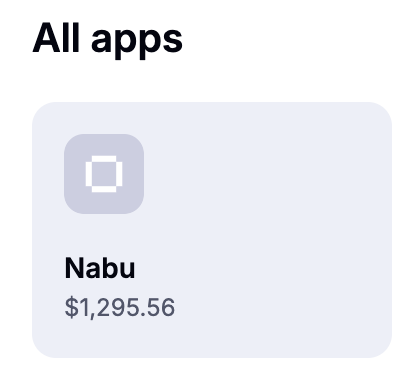
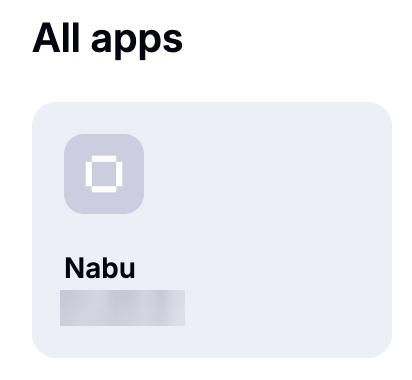
Fix connection guides, safety-control docs, diagrams, and exposed account data
Connection guides (0xAtelerix/smart_example#1475, #1483):
- Start both guides at app.nabu.pro/?settings=connect instead of the
  old cogwheel and Link Accounts flow, with a current screenshot.
- Show the current Connect Exchange Account form for Binance (step 2)
  and Hyperliquid (step 13, including the Link Exchange button).
- Point the final steps back to the Connect tab and add a closing
  "Connected" step with screenshots for both venues.

Safety controls (#1480):
- Daily loss cap, max slippage, venue allowlist, and kill switch all
  ship at MVP. Align the roadmap and the technology page with that, and
  add the daily loss cap to the risk control catalog.

Diagrams (#1481):
- Put Simulate before Deploy in the strategy lifecycle and update its
  alt text.
- Fix "Active best" and "Miliseconds".

Account data in screenshots (#1484):
- Remove the header screenshot that showed a team email and balance.
- Blur the email, username, and balances in the remaining Privy,
  MetaMask, Hyperliquid, and Nabu screenshots.

Changed region(s): [[0.1456, 0.7526, 0.4369, 0.8684]]

diff --git a/docs/getting-started/how-to-connect-binance-to-nabu-a-step-by-step-guide.md b/docs/getting-started/how-to-connect-binance-to-nabu-a-step-by-step-guide.md
@@ -10,13 +10,13 @@ description: >-
 
 ## Step 1: Start the connection in Nabu
 
-1\. Go to [app.nabu.pro](https://app.nabu.pro/) and click on the cogwheel next to your username.
+1\. Go to [app.nabu.pro/?settings=connect](https://app.nabu.pro/?settings=connect). This opens the **Connect** tab of your Nabu settings.
 
-<figure><img src="../../assets/images/hyperliquid-step-1-cogwheel.png" alt="Nabu header with the settings cogwheel next to the username" width="442"></figure>
+<figure><img src="../../assets/images/settings-connect.jpg" alt="Nabu settings with the Connect tab open, showing the Exchange Connect form with the Connect Exchange Account selector and the Link Exchange button" width="480"></figure>
 
-2\. Proceed to **Link Accounts**, and select **Binance**.
+2\. Under **Connect Exchange Account**, select **Binance**.
 
-<figure><img src="../../assets/images/binance-step-2-link-accounts.png" alt="Nabu Link Accounts screen with Binance selected" width="624"></figure>
+<figure><img src="../../assets/images/binance-step-2-connect.jpg" alt="Connect Exchange Account form with Binance selected, showing the API Key and API Secret fields and the Link Exchange button" width="450"></figure>
 
 ## Step 2: Create your API key on Binance
 
@@ -70,12 +70,12 @@ Note: for futures, make sure your Binance Futures account is set up and funded.
 
 <figure><img src="../../assets/images/binance-step-7-whitelist.png" alt="Binance Enable Symbol Whitelist settings" width="496"></figure>
 
-8\. Once completed, save the changes and head back to [app.nabu.pro](https://app.nabu.pro/).
+8\. Once completed, save the changes.
 
 ## Step 3: Nabu exchange settings
 
-9\. Head back to the settings, enter your API key and API secret into the **API Key** and **API Secret** fields, and click **Link Exchange**.
+9\. Return to the **Connect** tab at [app.nabu.pro/?settings=connect](https://app.nabu.pro/?settings=connect). With **Binance** selected under **Connect Exchange Account**, paste your API key and API secret into the **API Key** and **API Secret** fields, and click **Link Exchange**.
 
-10\. Binance now appears as a linked account in your Nabu settings.
+10\. Binance now appears under **Connected** with a green status indicator.
 
-<figure><img src="../../assets/images/binance-step-9-api-keys.png" alt="Nabu settings showing Binance as a linked account with an Unlink action" width="624"></figure>
+<figure><img src="../../assets/images/binance-step-10-connected.jpg" alt="Connected list showing Binance with a green status indicator and a remove action" width="450"></figure>

diff --git a/docs/getting-started/how-to-connect-hyperliquid-to-nabu-a-step-by-step-guide.md b/docs/getting-started/how-to-connect-hyperliquid-to-nabu-a-step-by-step-guide.md
@@ -10,13 +10,11 @@ description: >-
 
 ## Step 1: Start the connection in Nabu
 
-1\. Go to [app.nabu.pro](https://app.nabu.pro/) and click on the cogwheel next to your username.
+1\. Go to [app.nabu.pro/?settings=connect](https://app.nabu.pro/?settings=connect). This opens the **Connect** tab of your Nabu settings.
 
-<figure><img src="../../assets/images/hyperliquid-step-1-cogwheel.png" alt="Nabu header with the settings cogwheel next to the username" width="442"></figure>
+<figure><img src="../../assets/images/settings-connect.jpg" alt="Nabu settings with the Connect tab open, showing the Exchange Connect form with the Connect Exchange Account selector and the Link Exchange button" width="480"></figure>
 
-2\. Proceed to **Link Accounts**, and select **Hyperliquid**.
-
-<figure><img src="../../assets/images/hyperliquid-step-2-link-accounts.png" alt="Nabu Link Accounts screen with Hyperliquid selected" width="624"></figure>
+2\. Under **Connect Exchange Account**, select **Hyperliquid**.
 
 ## Step 2: Export your private key from Privy
 
@@ -60,6 +58,10 @@ description: >-
 
 <figure><img src="../../assets/images/hyperliquid-step-12-account-details.png" alt="Account menu for the imported wallet account, with Account details highlighted" width="261"></figure>
 
-13\. Copy your **private key**, return to the Nabu settings page, paste it into the **Private Key** field, and click **Link Exchange**.
+13\. Copy your **private key** and return to the **Connect** tab at [app.nabu.pro/?settings=connect](https://app.nabu.pro/?settings=connect). With **Hyperliquid** selected under **Connect Exchange Account**, paste the key into the **Private Key** field. Check that the **Wallet address** shown below the field matches your imported account, then click **Link Exchange**.
 
-<figure><img src="../../assets/images/hyperliquid-step-2-link-accounts.png" alt="Nabu Exchange Connect dialog showing the Private Key field and the Link Exchange button" width="624"></figure>
+<figure><img src="../../assets/images/hyperliquid-step-13-private-key.jpg" alt="Connect Exchange Account form with Hyperliquid selected, a masked private key, the derived wallet address, and the Link Exchange button" width="450"></figure>
+
+14\. Hyperliquid now appears under **Connected** with a green status indicator and your wallet address.
+
+<figure><img src="../../assets/images/hyperliquid-step-14-connected.jpg" alt="Connected list showing Hyperliquid with a green status indicator, the wallet address, and a remove action" width="450"></figure>

diff --git a/docs/roadmap.md b/docs/roadmap.md
@@ -22,7 +22,7 @@ The following table depicts what is shipping at launch and details some of the f
 | Agent competition  | Basic multi-variant generation + ranking                                 | Competition ladder: promote best, iterate mid, drop worst + rewards | Competition leagues by strategy class + team competition    | Permissionless agent marketplace + onchain attestations of competition performance |
 | Social layer       | Strategy pages (basic), Feed                                             | Performance details (selective disclosure)                          | Profit share, topic rooms, DMs, private org spaces          | Full creator marketplace                                                            |
 | Growth / Referrals | Referral links                                                           | Activation-gated referrals + rewards + anti-abuse                   | Tiered rewards + team/org invites + partner referral tracks | Creator/affiliate revenue share + ecosystem programs                                |
-| Safety controls    | Allowlist + kill switch                                                  | + daily loss cap, max slippage                                      | Expanded risk suite                                         | Institutional policy packs                                                          |
+| Safety controls    | Daily loss cap, max slippage, allowlist + kill switch                    | —                                                                   | Expanded risk suite                                         | Institutional policy packs                                                          |
 
 See the [risk control catalog](technology.md#risk-control-catalog) for the full policy surface.
 

diff --git a/docs/technology.md b/docs/technology.md
@@ -42,13 +42,14 @@ This section describes how CEX credentials are handled within the trust and visi
 
 ## Risk control catalog
 
-Nabu’s policy model implements execution-grade risk controls across multiple layers — strategy, account, and venue — reflecting established best practices in automated trading. The controls listed below present the full policy surface the system is [designed to support at v1](roadmap.md). The subset shipping at MVP launch is the venue allowlist and the kill switch; see the [roadmap](roadmap.md) for how the rest phase in.
+Nabu’s policy model implements execution-grade risk controls across multiple layers — strategy, account, and venue — reflecting established best practices in automated trading. The controls listed below present the full policy surface the system is [designed to support at v1](roadmap.md). The subset shipping at MVP launch is the daily loss cap, max slippage, venue allowlist, and kill switch; see the [roadmap](roadmap.md) for how the rest phase in.
 
 TEEs are relied on for confidentiality, integrity, and attestation, but are treated as fallible components rather than sources of availability guarantees.
 
 * Core exposure limits:
     * Max position size per asset; max gross/net exposure; concentration limits.
     * Max leverage and margin utilization (derivatives).
+    * Daily loss cap per strategy and per account.
 * Pre-trade validations:
     * Order size caps; notional caps; price collars / price band checks; fat-finger protection.
     * Slippage ceilings; minimum liquidity checks; gas/fee ceilings (where applicable).

diff --git a/docs/getting-started/index.md b/docs/getting-started/index.md
@@ -14,7 +14,7 @@ Pick the venue you want to trade on and follow its guide.
 - [Connect Hyperliquid](how-to-connect-hyperliquid-to-nabu-a-step-by-step-guide.md): export the private key of your Nabu wallet from Privy, fund the account, and paste the key into Nabu.
 - [Connect Binance](how-to-connect-binance-to-nabu-a-step-by-step-guide.md): create an API key with the right permissions, symbol whitelist, and IP restrictions, then link it in Nabu.
 
-Both guides start the same way, in the settings menu at [app.nabu.pro](https://app.nabu.pro/).
+Both guides start the same way, on the **Connect** tab of your Nabu settings at [app.nabu.pro/?settings=connect](https://app.nabu.pro/?settings=connect).
 
 ## Before you start
 

diff --git a/docs/solution.md b/docs/solution.md
@@ -32,7 +32,7 @@ The following steps illustrate the full lifecycle of a strategy on Nabu:
 * Step 7 — **Iterate:** fork, version, and refine based on observed receipts, metrics, and failure analysis.
 * (Optional) Step 8 — **Share:** publish performance details and terms while keeping proprietary logic private.
 
-![Strategy lifecycle: generate variants, verify them in PSL, deploy, simulate, observe outcomes, and iterate, with optional publishing](assets/images/strategy-lifecycle.png)
+![Strategy lifecycle: generate variants, verify them in PSL, simulate, deploy, observe outcomes, and iterate, with optional publishing](assets/images/strategy-lifecycle.png)
 
 ### Privacy guardrails
 
